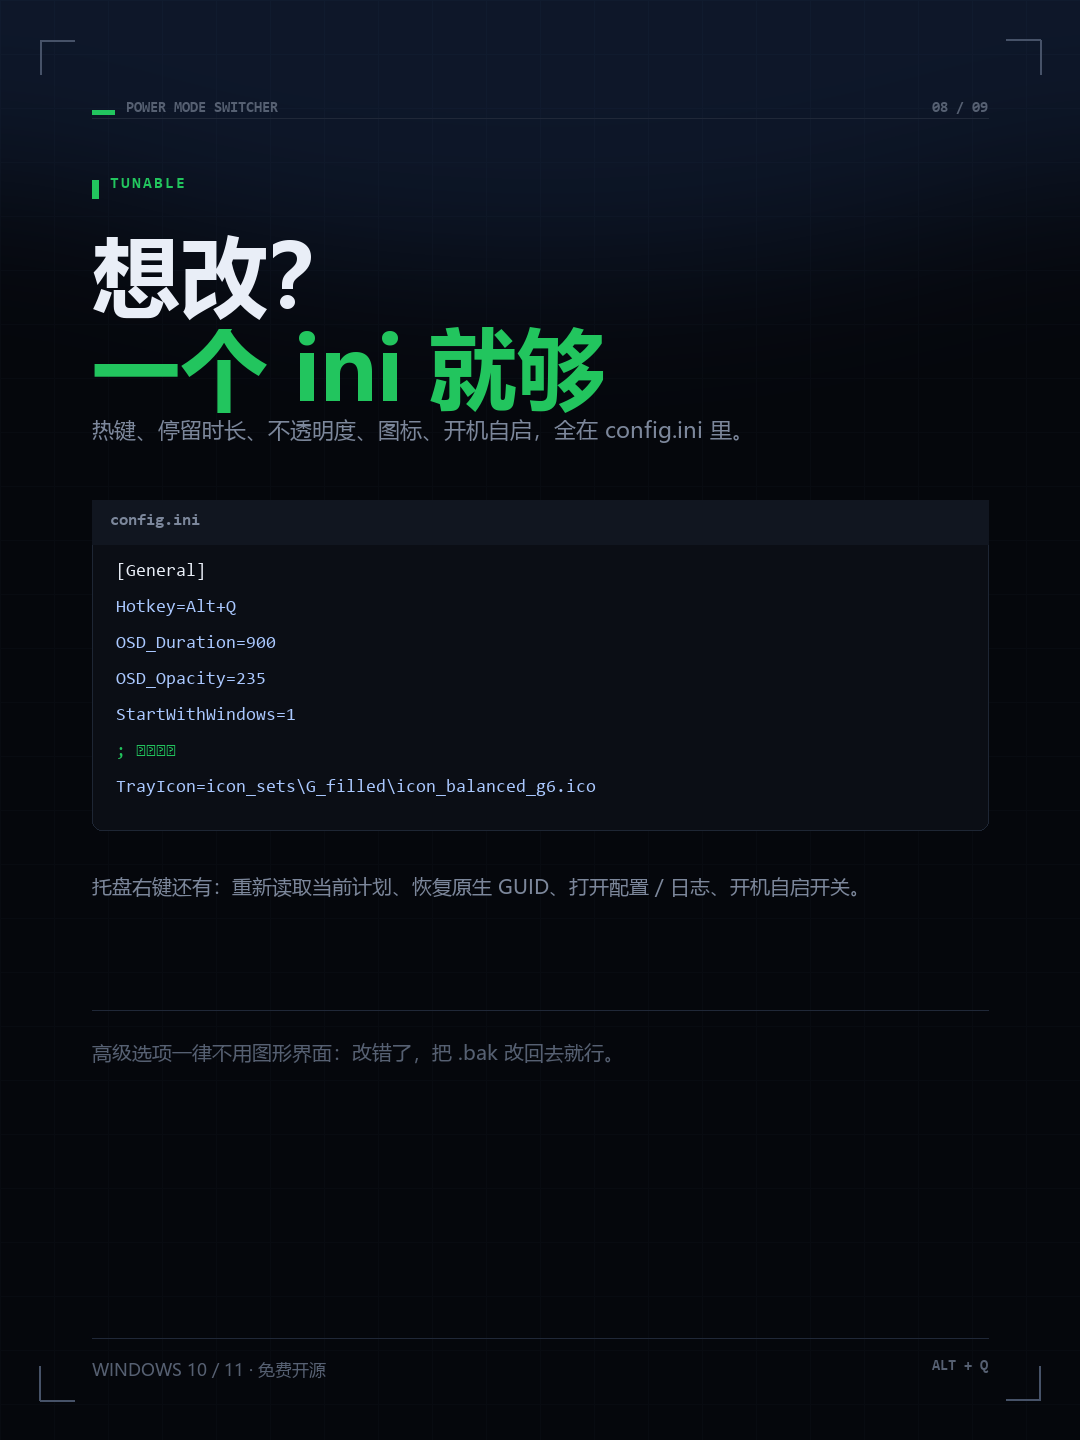
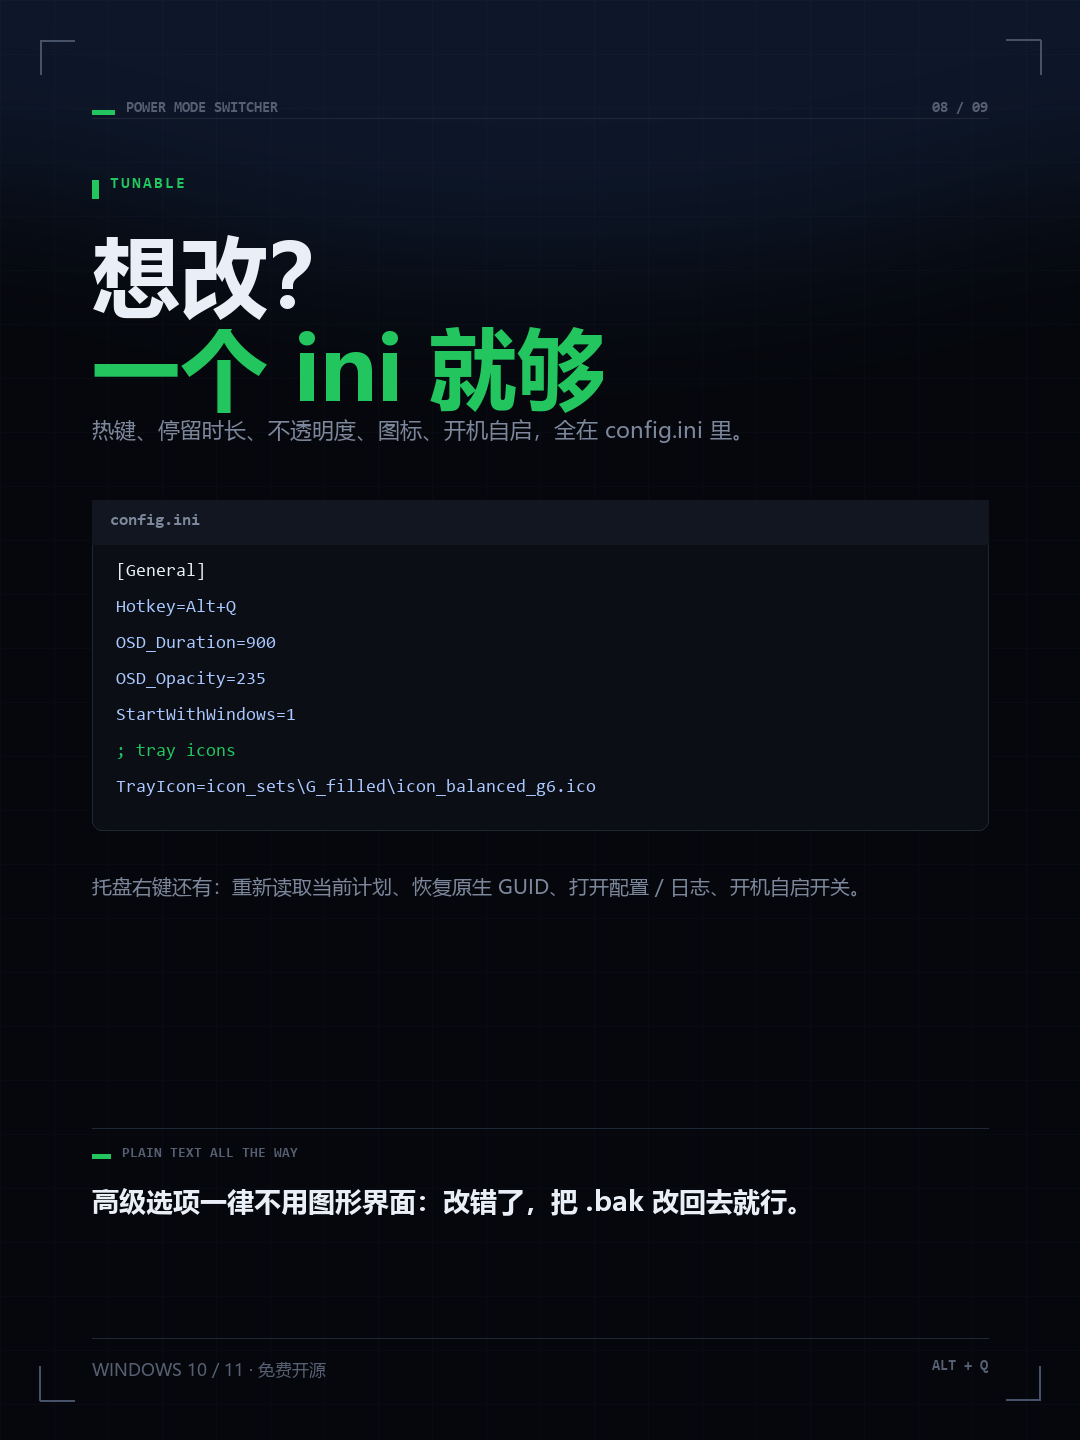
fix(marketing): correct tofu glyphs and footer band on the config card

diff --git a/marketing/render_xhs_v2.py b/marketing/render_xhs_v2.py
@@ -369,7 +369,7 @@ def card_config(total):
     d.text((bx + 18, by + 12), "config.ini", font=F("mono", 17), fill=MUT)
     lines = [
         "[General]", "Hotkey=Alt+Q", "OSD_Duration=900", "OSD_Opacity=235",
-        "StartWithWindows=1", "; 三档图标", "TrayIcon=icon_sets\\G_filled\\icon_balanced_g6.ico",
+        "StartWithWindows=1", "; tray icons", "TrayIcon=icon_sets\\G_filled\\icon_balanced_g6.ico",
     ]
     yy = by + 62
     for i, ln in enumerate(lines):
@@ -377,8 +377,7 @@ def card_config(total):
         d.text((bx + 24, yy), ln, font=F("monor", 18), fill=c)
         yy += 36
     body(d, M, 872, "托盘右键还有：重新读取当前计划、恢复原生 GUID、打开配置 / 日志、开机自启开关。", 20, MUT, CW - 40, 1.5)
-    d.line([(M, 1010), (W - M, 1010)], fill=LINE, width=1)
-    body(d, M, 1038, "高级选项一律不用图形界面：改错了，把 .bak 改回去就行。", 20, DIM, CW - 40)
+    bottom_band(d, "PLAIN TEXT ALL THE WAY", "高级选项一律不用图形界面：改错了，把 .bak 改回去就行。", GREEN)
     chrome(d, 8, total, GREEN)
     return img
 
